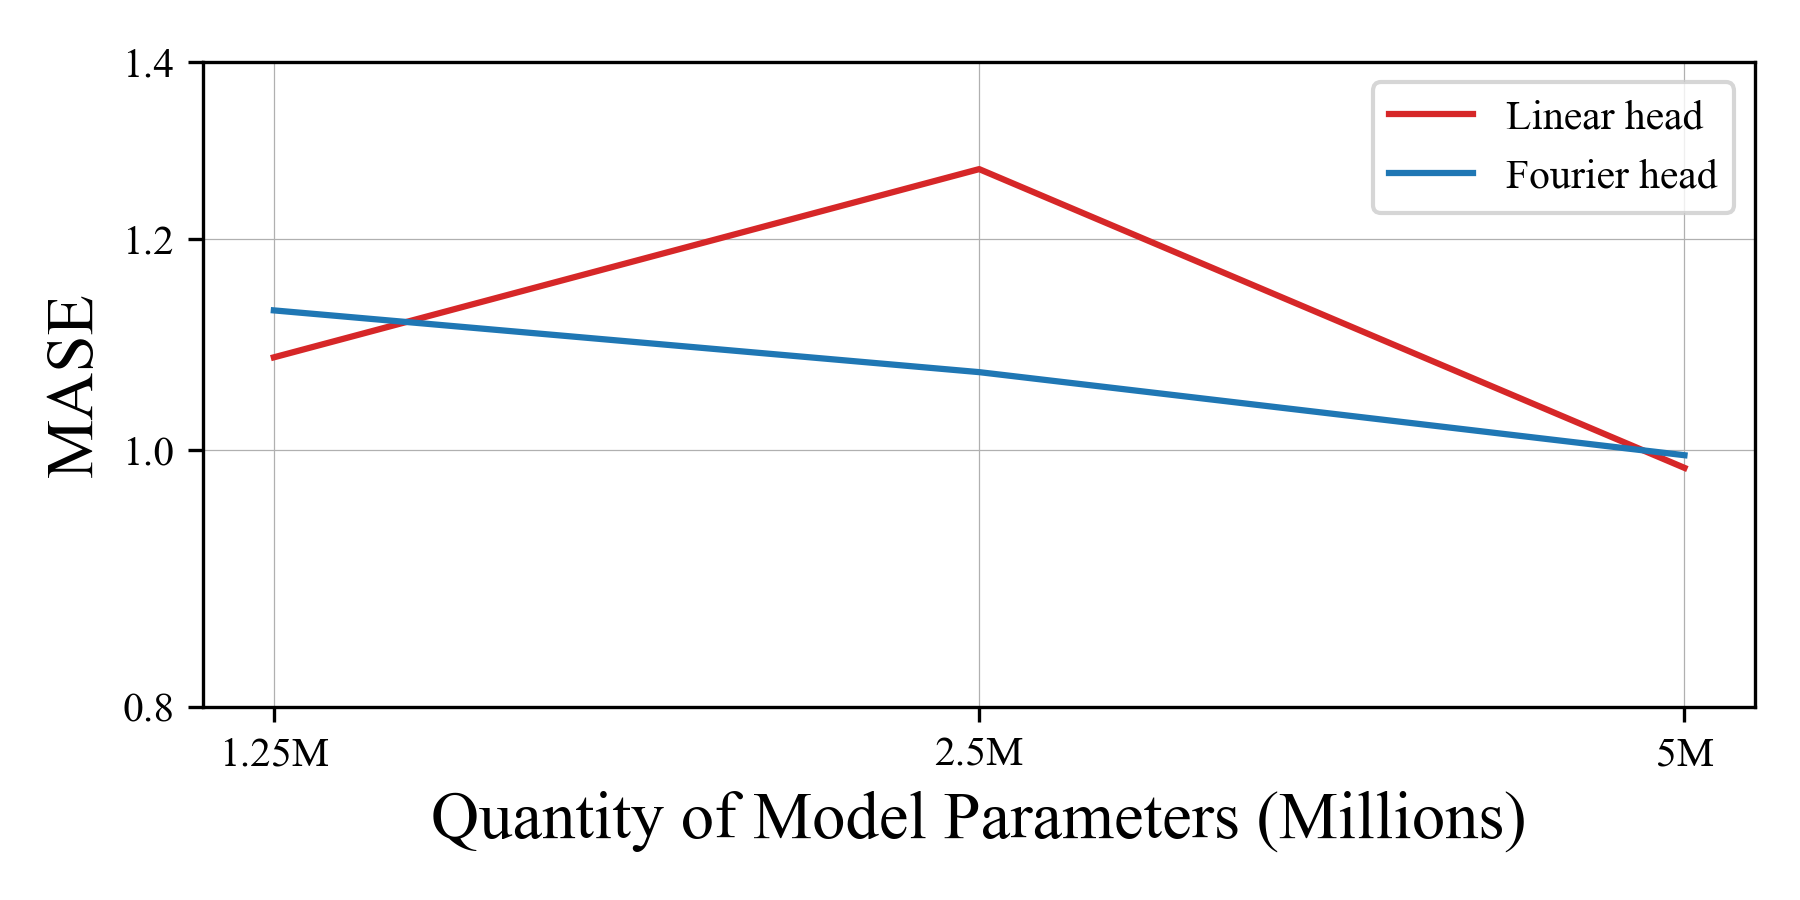
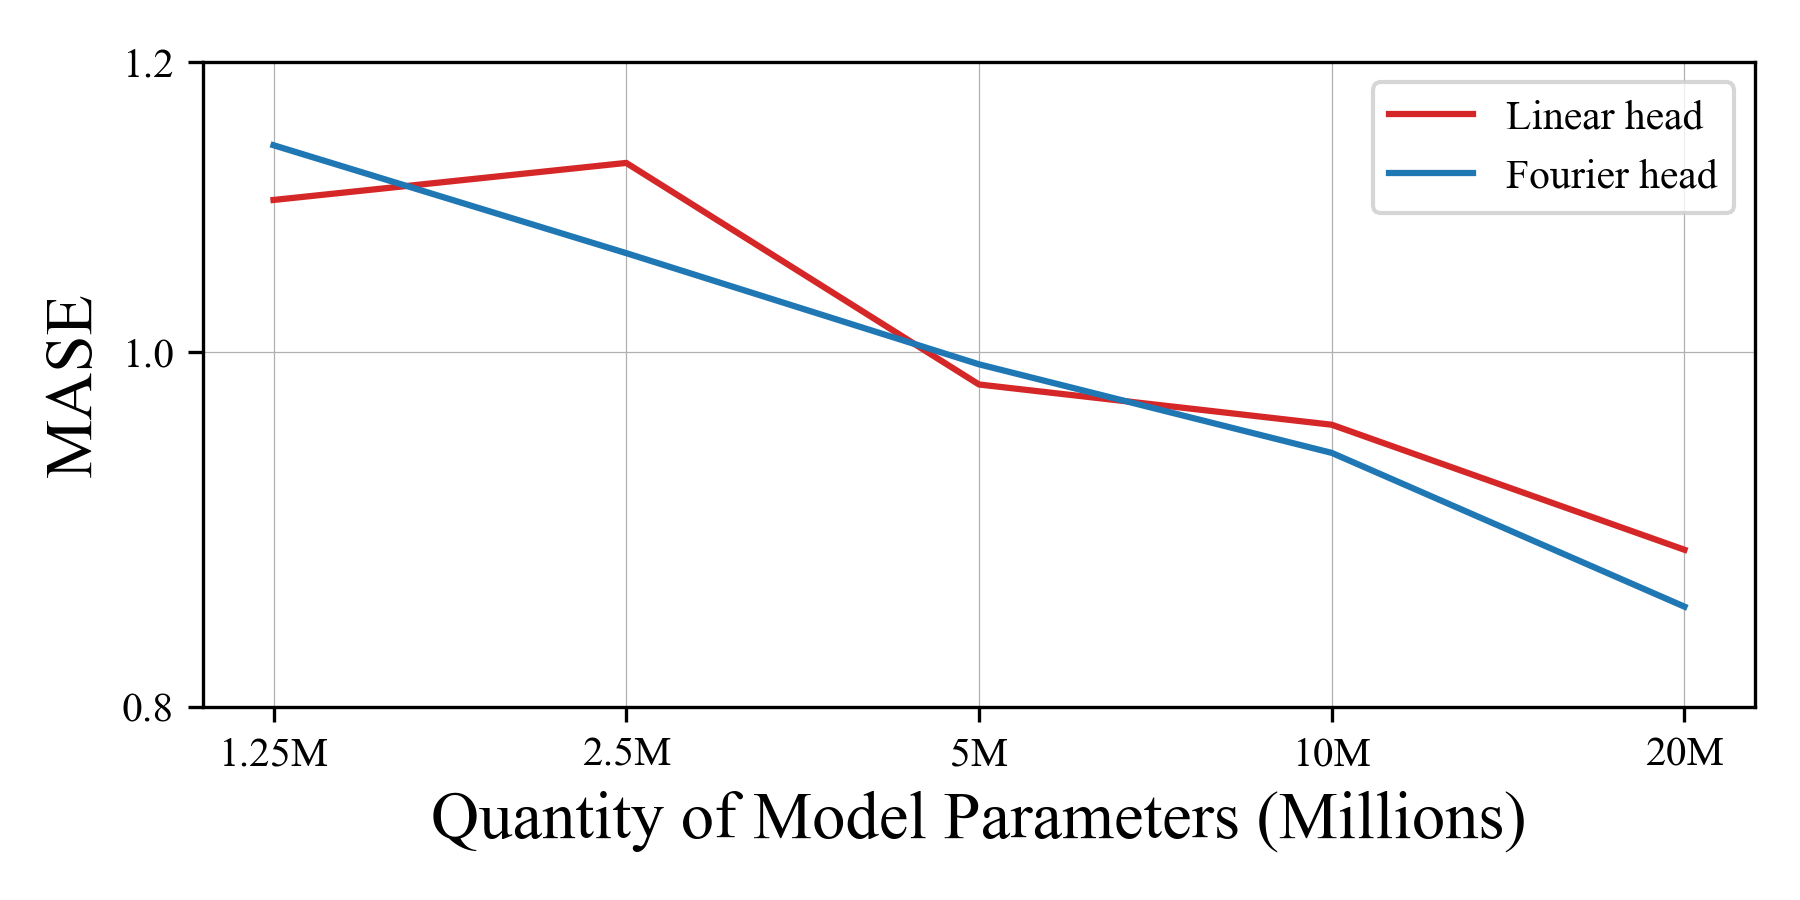
graphing update

diff --git a/time-series-forecasting/scripts/eval/graphing/chronos_ablation_varying_model_size_v3.py b/time-series-forecasting/scripts/eval/graphing/chronos_ablation_varying_model_size_v3.py
@@ -18,20 +18,20 @@ for pth in sys.path:
 
 from t5_scaling_configs_v2 import t5_scaling_configs
 
-MAX_RUN_IDX = 2
+MAX_RUN_IDX = 4
 
 run_idxs = {
     "fourier" : {
-        0 : [0],
-        1 : [1],
-        2 : [2],
-        3 : [3],
+        0 : [0, 11, 12, 13],
+        1 : [1, 31, 32, 33],
+        2 : [2, 23, 24, 25],
+        3 : [3, 8, 9, 10],
     },
     "linear" : {
-        0 : [4],
-        1 : [5],
-        2 : [6],
-        3 : [7],
+        0 : [4, 17, 18, 19],
+        1 : [5, 27, 34, 35],
+        2 : [6, 20, 21, 22],
+        3 : [7, 28, 29, 30],
     },
 
 }
@@ -121,7 +121,7 @@ def build_graph(metric_name, x_positions, linear_values, fourier_values, linear_
     ax.set_xscale('log')
 
     ax.set_yscale('log')
-    yticks = [0.8, 1.0, 1.2, 1.4]
+    yticks = [0.8, 1.0, 1.2]
     ax.set_yticks(yticks)
     ax.set_yticklabels([f'{y:.1f}' for y in yticks])
 
@@ -148,7 +148,7 @@ def main():
 
     metrics = gather_metrics(base_path)
 
-    x_positions = [1250000, 2500000, 5000000, 10000000, 20000000][:MAX_RUN_IDX+1]
+    x_positions = [1250000, 2500000, 5000000, 10000000, 20000000][:MAX_RUN_IDX+1] # these are close enoguh to the real vals that we graph them instead
     metrics["fourier"]["num_params"] = x_positions
     
     # Create MASE graph
